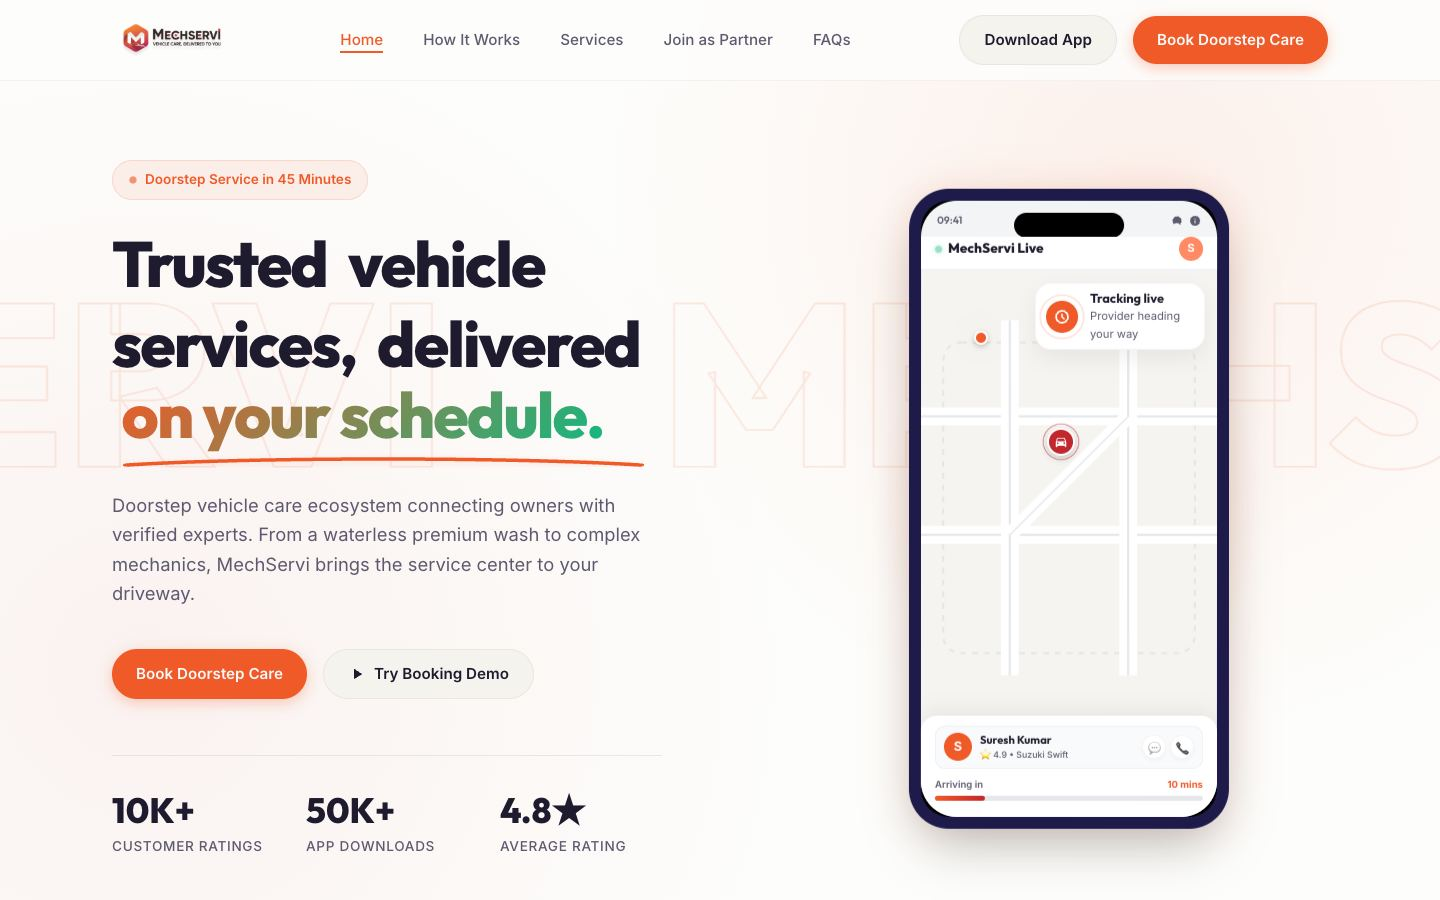
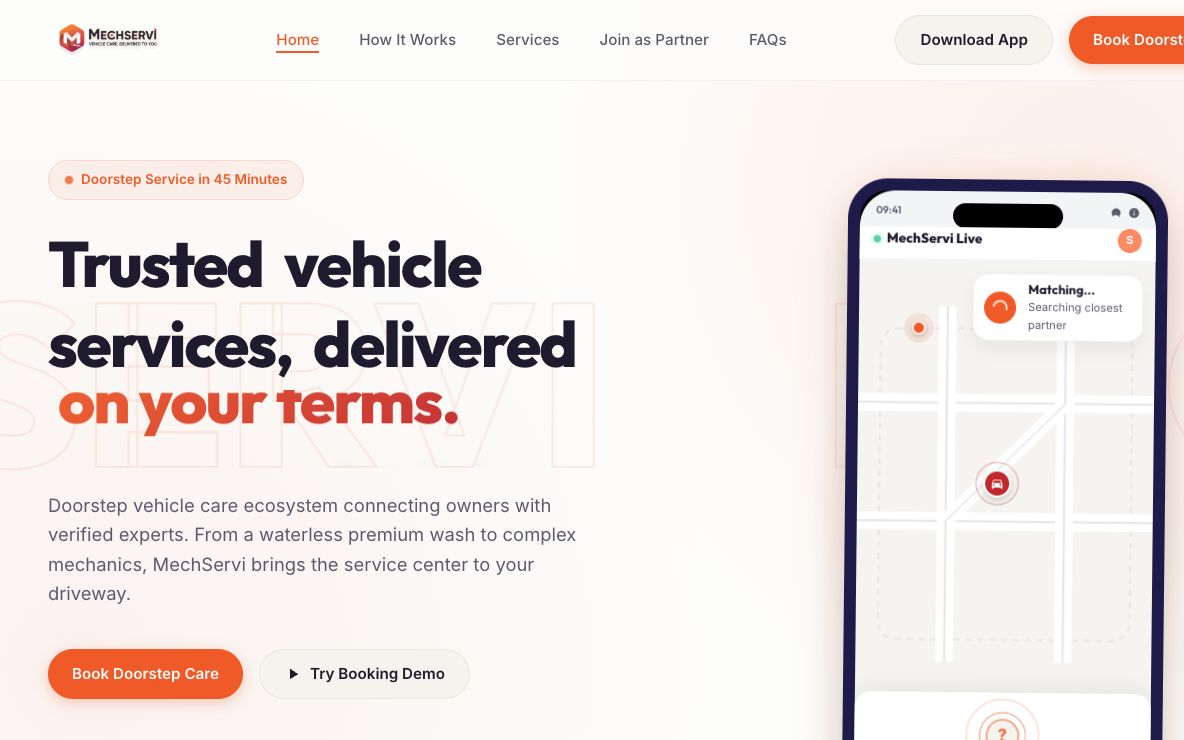
Make the portfolio results-led and link the case study
Hero leads with verified MechServi outcomes and relocation availability;
overview adds a results strip; project cards show headline results
(MechServi, SetoraHome campaign data) and link to the case study; nav,
experience and sitemap point to /mechservi/. Replace the MechServi
screenshot with a crop that omits the live site's unverified stats.

diff --git a/src/components/Hero.tsx b/src/components/Hero.tsx
@@ -1,7 +1,9 @@
 "use client";
 
+import Link from "next/link";
 import { motion } from "framer-motion";
-import { ArrowDown, ArrowRight, Blocks, Cog, LineChart, Rocket, type LucideIcon } from "lucide-react";
+import { ArrowDown, ArrowRight, Blocks, Cog, LineChart, MapPin, Rocket, type LucideIcon } from "lucide-react";
+import { headline as mechservi } from "@/lib/mechservi";
 import { site } from "@/lib/site";
 import { Reveal } from "./ui";
 
@@ -34,7 +36,7 @@ export function Hero() {
 
         <motion.p
           {...fadeUp(0.16)}
-          className="mt-8 flex flex-col gap-1 text-2xl font-medium tracking-tight text-fg sm:flex-row sm:flex-wrap sm:items-center sm:gap-x-4 md:text-3xl"
+          className="mt-8 flex flex-col gap-1 text-xl font-medium tracking-tight text-fg sm:flex-row sm:flex-wrap sm:items-center sm:gap-x-4 md:text-2xl"
         >
           {site.headline.map((h, i) => (
             <span key={h} className="flex items-center gap-4">
@@ -45,8 +47,9 @@ export function Hero() {
         </motion.p>
 
         <motion.p {...fadeUp(0.24)} className="mt-8 max-w-2xl text-lg leading-relaxed text-muted md:text-xl">
-          I work at the intersection of business strategy, operations, technology and growth. I build business processes,
-          execute go-to-market strategies, manage cross-functional projects and turn ideas into structured execution.
+          I don&apos;t just plan strategy. As founder of MechServi I built the business systems, ran the growth campaigns,
+          shipped the digital platforms and managed real-world operations, serving{" "}
+          <span className="text-fg">402 customers with a 28% repeat rate</span>.
         </motion.p>
 
         <motion.div {...fadeUp(0.32)} className="mt-12 flex flex-wrap items-center gap-3">
@@ -57,14 +60,21 @@ export function Hero() {
             View My Work
             <ArrowDown className="size-4 transition-transform group-hover:translate-y-0.5" aria-hidden />
           </a>
-          <a
-            href="#contact"
+          <Link
+            href="/mechservi/"
             className="group inline-flex items-center gap-2 rounded-full border border-line-strong px-7 py-4 text-sm font-medium text-fg transition hover:border-fg"
           >
-            Contact Me
+            MechServi Case Study
             <ArrowRight className="size-4 transition-transform group-hover:translate-x-0.5" aria-hidden />
+          </Link>
+          <a href="#contact" className="px-3 py-4 text-sm font-medium text-muted transition hover:text-fg">
+            Contact Me
           </a>
         </motion.div>
+        <motion.p {...fadeUp(0.4)} className="mt-8 flex items-center gap-2 text-sm text-muted">
+          <MapPin className="size-4 text-cyan" aria-hidden />
+          {site.availability}
+        </motion.p>
       </div>
     </section>
   );
@@ -104,6 +114,28 @@ export function Overview() {
               </li>
             ))}
           </ul>
+        </Reveal>
+
+        <Reveal className="lg:col-span-2">
+          <div className="flex flex-wrap items-baseline justify-between gap-3">
+            <p className="font-mono text-[11px] uppercase tracking-[0.28em] text-muted">Results at MechServi</p>
+            <Link href="/mechservi/" className="group inline-flex items-center gap-1.5 text-sm font-medium text-cyan hover:text-fg">
+              See how these were measured
+              <ArrowRight className="size-3.5 transition-transform group-hover:translate-x-0.5" aria-hidden />
+            </Link>
+          </div>
+          <dl className="mt-5 grid grid-cols-2 gap-px overflow-hidden rounded-3xl border border-line bg-line lg:grid-cols-4">
+            {[mechservi[0], mechservi[1], mechservi[2], mechservi[5]].map((m) => (
+              <div key={m.label} className="bg-ink-2 p-6 md:p-7">
+                <dt className="sr-only">{m.label}</dt>
+                <dd>
+                  <span className="block font-serif text-4xl italic leading-none md:text-5xl">{m.value}</span>
+                  <span className="mt-3 block font-medium tracking-tight">{m.label}</span>
+                  <span className="mt-1 block text-xs leading-relaxed text-muted">{m.note}</span>
+                </dd>
+              </div>
+            ))}
+          </dl>
         </Reveal>
       </div>
     </section>

diff --git a/src/lib/content.ts b/src/lib/content.ts
@@ -2,7 +2,7 @@
 // repositories. Nothing here is an estimate: no invented clients, traffic,
 // revenue or user numbers. Update this file when the facts change.
 
-export type EngagementKind = "Operating role" | "Freelance practice" | "Project engagement" | "Consulting engagement" | "Training";
+export type EngagementKind = "Founder" | "Operating role" | "Freelance practice" | "Project engagement" | "Consulting engagement" | "Training";
 
 export type Experience = {
   id: string;
@@ -22,7 +22,7 @@ export const coreExperience: Experience[] = [
     id: "mechservi",
     name: "MechServi Technology Pvt. Ltd.",
     role: "Founder & CEO",
-    kind: "Operating role",
+    kind: "Founder",
     period: "2023 — Present",
     description: "Doorstep automotive services business, Lucknow.",
     highlights: [
@@ -34,7 +34,9 @@ export const coreExperience: Experience[] = [
       "Implemented CRM and WhatsApp Business workflows.",
       "Coordinated field teams, service delivery and customer issue resolution.",
     ],
-    link: { label: "mechservi.in", href: "https://mechservi.in" },
+    contribution:
+      "402 unique customers, 389 completed one-time services and 91 subscription customers in operating records (Nov 2025 – Apr 2026); 28% of one-time customers booked again.",
+    link: { label: "Read the MechServi case study", href: "/mechservi/" },
   },
   {
     id: "freelance",
@@ -81,7 +83,7 @@ export const engagements: Experience[] = [
       "WhatsApp Business setup and catalogue; lead qualification, booking workflow and follow-up SOPs.",
       "AI-assisted video ad concepts, scripts, Hindi voiceovers and creative direction.",
     ],
-    contribution: "Designed the launch GTM: from ad to WhatsApp conversation to booking, with a 10-minute warm-lead response process.",
+    contribution: "Designed the launch GTM from ad to WhatsApp conversation to booking. Three Meta campaigns started 135 WhatsApp conversations in 15 days (4–18 Oct 2026).",
     link: { label: "setorahome.com", href: "https://www.setorahome.com" },
   },
   {
@@ -164,6 +166,10 @@ export type Project = {
   imageAlt: string;
   links: { label: string; href: string }[];
   note?: string;
+  /** Verified headline results shown on the card. */
+  results?: { value: string; label: string }[];
+  /** Internal route to a full case study. */
+  caseStudy?: string;
 };
 
 export const projects: Project[] = [
@@ -171,8 +177,15 @@ export const projects: Project[] = [
     slug: "mechservi",
     name: "MechServi",
     kicker: "Automotive services · 2023 → present",
-    tagline: "A doorstep bike and car service business, taken from idea to live operations in Lucknow.",
+    tagline: "A doorstep vehicle-care business in Lucknow: 402 unique customers, 389 completed services and a 28% repeat rate.",
     status: { label: "Live business", tone: "live" },
+    results: [
+      { value: "402", label: "Unique customers" },
+      { value: "389", label: "Completed services" },
+      { value: "28%", label: "Repeat rate" },
+      { value: "870K+", label: "Meta views / month" },
+    ],
+    caseStudy: "/mechservi/",
     role: "Founder & CEO",
     problem:
       "Vehicle owners lose half a day to a workshop visit, while skilled independent mechanics have no steady demand or booking system. MechServi brings the service to the driveway.",
@@ -237,6 +250,12 @@ export const projects: Project[] = [
     kicker: "Home services · Varanasi launch",
     tagline: "A multi-service home-care brand: shifting, cleaning, repairs, car washing and senior care.",
     status: { label: "Live brand · redesign ready", tone: "live" },
+    results: [
+      { value: "135", label: "WhatsApp conversations" },
+      { value: "13.5K", label: "Ad impressions" },
+      { value: "91", label: "Partner-hiring chats" },
+      { value: "15 days", label: "Campaign window" },
+    ],
     role: "Digital Growth & Marketing Consultant",
     problem:
       "Households in Varanasi have no single, trusted channel to book everyday home help, from shifting and repairs to hospital assistance for parents.",

diff --git a/src/components/Projects.tsx b/src/components/Projects.tsx
@@ -1,5 +1,6 @@
 import Image from "next/image";
-import { ArrowUpRight, Lock } from "lucide-react";
+import Link from "next/link";
+import { ArrowRight, ArrowUpRight, Lock } from "lucide-react";
 import { moreRepos, projects, type Project } from "@/lib/content";
 import { asset } from "@/lib/site";
 import { GitHubIcon } from "./icons";
@@ -54,6 +55,20 @@ function ProjectCase({ p, index }: { p: Project; index: number }) {
         <h3 className="mt-2 text-4xl font-medium tracking-tight md:text-5xl">{p.name}</h3>
         <p className="mt-4 text-lg leading-relaxed text-fg/85">{p.tagline}</p>
 
+        {p.results && (
+          <dl className="mt-7 grid grid-cols-2 gap-px overflow-hidden rounded-2xl border border-line bg-line sm:grid-cols-4">
+            {p.results.map((r) => (
+              <div key={r.label} className="bg-ink-2 px-4 py-4">
+                <dt className="sr-only">{r.label}</dt>
+                <dd>
+                  <span className="block font-serif text-3xl italic leading-none text-fg">{r.value}</span>
+                  <span className="mt-1.5 block text-xs text-muted">{r.label}</span>
+                </dd>
+              </div>
+            ))}
+          </dl>
+        )}
+
         <dl className="mt-8 grid gap-6 sm:grid-cols-[120px_1fr]">
           <dt className="font-mono text-[11px] uppercase tracking-widest text-dim">My role</dt>
           <dd className="text-fg">{p.role}</dd>
@@ -98,6 +113,15 @@ function ProjectCase({ p, index }: { p: Project; index: number }) {
         </dl>
 
         <div className="mt-9 flex flex-wrap items-center gap-2">
+          {p.caseStudy && (
+            <Link
+              href={p.caseStudy}
+              className="group inline-flex items-center gap-2 rounded-full bg-cyan px-5 py-2 text-sm font-semibold text-ink transition hover:bg-white"
+            >
+              Read the case study
+              <ArrowRight className="size-4 transition-transform group-hover:translate-x-0.5" aria-hidden />
+            </Link>
+          )}
           {p.links.map((l) => (
             <a
               key={l.href}

diff --git a/src/components/Nav.tsx b/src/components/Nav.tsx
@@ -3,7 +3,8 @@
 import { useEffect, useState } from "react";
 import { AnimatePresence, motion } from "framer-motion";
 import { Download, Menu, X } from "lucide-react";
-import { asset, navItems, site } from "@/lib/site";
+import Link from "next/link";
+import { asset, navItems, pageLinks, site } from "@/lib/site";
 import { LinkedInIcon } from "./icons";
 
 export function Nav() {
@@ -75,6 +76,13 @@ export function Nav() {
               </a>
             </li>
           ))}
+          {pageLinks.map((l) => (
+            <li key={l.href}>
+              <Link href={l.href} className="block rounded-full px-4 py-1.5 text-sm text-cyan transition-colors hover:text-fg">
+                Case Study
+              </Link>
+            </li>
+          ))}
         </ul>
 
         <div className="flex items-center gap-2">
@@ -136,6 +144,18 @@ export function Nav() {
                     {n.label}
                   </a>
                 </motion.li>
+              ))}
+              {pageLinks.map((l) => (
+                <li key={l.href}>
+                  <Link
+                    href={l.href}
+                    onClick={() => setOpen(false)}
+                    className="flex items-baseline gap-4 border-b border-line py-4 text-3xl tracking-tight text-cyan"
+                  >
+                    <span className="font-mono text-xs">→</span>
+                    {l.label}
+                  </Link>
+                </li>
               ))}
             </ul>
             <div className="flex flex-wrap gap-3 px-5 pt-8">

diff --git a/src/components/Experience.tsx b/src/components/Experience.tsx
@@ -2,7 +2,8 @@
 
 import { useState } from "react";
 import { AnimatePresence, motion } from "framer-motion";
-import { ArrowUpRight, ChevronDown, GraduationCap } from "lucide-react";
+import Link from "next/link";
+import { ArrowRight, ArrowUpRight, ChevronDown, GraduationCap } from "lucide-react";
 import { coreExperience, engagements, engagementsPeriod, type Experience as Exp } from "@/lib/content";
 import { Reveal, SectionHeading } from "./ui";
 
@@ -66,7 +67,16 @@ function ExperienceItem({ e, open, onToggle, highlight }: { e: Exp; open: boolea
                   <p className="mt-1.5 text-sm leading-relaxed text-fg">{e.contribution}</p>
                 </div>
               )}
-              {e.link && (
+              {e.link?.href.startsWith("/") && (
+                <Link
+                  href={e.link.href}
+                  className="group mt-4 inline-flex items-center gap-1.5 text-sm font-medium text-cyan transition hover:text-fg"
+                >
+                  {e.link.label}
+                  <ArrowRight className="size-3.5 transition-transform group-hover:translate-x-0.5" aria-hidden />
+                </Link>
+              )}
+              {e.link && !e.link.href.startsWith("/") && (
                 <a
                   href={e.link.href}
                   target="_blank"

diff --git a/src/lib/site.ts b/src/lib/site.ts
@@ -10,9 +10,9 @@ export const site = {
   description:
     "Rishabh Shukla is a strategy and operations professional from Lucknow, India, with 3+ years of startup execution across business growth, product and marketplace operations, GTM strategy and technology implementation.",
   designation: "Strategy & Operations Lead",
-  headline: ["Business Strategy", "Growth", "Product Operations"],
+  headline: ["Business Strategy & Operations", "Growth & Performance Marketing", "Product & Technology Execution"],
   location: "Lucknow, Uttar Pradesh, India",
-  availability: "Open to Delhi NCR (Gurgaon / Noida) and Remote",
+  availability: "Open to immediate relocation · Delhi NCR, Bengaluru or remote",
   email: "rishabh18795@gmail.com",
   phone: "+91 95591 33317",
   phoneHref: "tel:+919559133317",
@@ -32,3 +32,6 @@ export const navItems = [
   { id: "projects", label: "Projects" },
   { id: "contact", label: "Contact" },
 ] as const;
+
+/** Standalone pages linked from the main navigation. */
+export const pageLinks = [{ href: "/mechservi/", label: "MechServi case study" }] as const;

diff --git a/src/app/sitemap.ts b/src/app/sitemap.ts
@@ -4,5 +4,8 @@ import { site } from "@/lib/site";
 export const dynamic = "force-static";
 
 export default function sitemap(): MetadataRoute.Sitemap {
-  return [{ url: `${site.url}/`, lastModified: new Date(), changeFrequency: "monthly", priority: 1 }];
+  return [
+    { url: `${site.url}/`, lastModified: new Date(), changeFrequency: "monthly", priority: 1 },
+    { url: `${site.url}/mechservi/`, lastModified: new Date(), changeFrequency: "monthly", priority: 0.9 },
+  ];
 }

diff --git a/README.md b/README.md
@@ -21,7 +21,9 @@ The site presents MechServi (where Rishabh leads startup operations and growth),
 
 ## Sections
 
-Home (hero + professional overview) · Technical Skills · Experience (expandable timeline, education) · Projects · Contact (form + direct channels) · Resume download
+Home (hero, overview, verified results) · Technical Skills · Experience (expandable timeline, education) · Projects · Contact (form + direct channels) · Resume download
+
+**MechServi case study** (`/mechservi/`): flagship founder case study with customer and retention analytics, performance marketing results, WhatsApp and CRM workflow, revenue model, operations and technology, each item labelled by real status. Data rules: no prices, no customer personal data, workbook versions de-duplicated rather than summed. Figures and their derivation live in `src/lib/mechservi.ts`.
 
 SEO: metadata, Open Graph/Twitter image (`public/og.png`), JSON-LD `Person` schema, `sitemap.xml`, `robots.txt`, SVG favicon.
 
@@ -29,14 +31,16 @@ SEO: metadata, Open Graph/Twitter image (`public/og.png`), JSON-LD `Person` sche
 
 ```
 src/
-  app/            layout (metadata, fonts), page, icon.svg, sitemap.ts, robots.ts, not-found
-  components/     Nav, Hero (incl. Overview), Skills, Experience, Projects, Contact, ContactForm, ui
+  app/            layout (metadata, fonts), page, mechservi/ (case study), icon.svg, sitemap.ts, robots.ts, not-found
+  components/     Nav, Hero (incl. Overview), Skills, Experience, Projects, Contact, ContactForm, mechservi (case-study blocks), ui
   lib/
     site.ts       profile, links, contact details, base-path helper
     content.ts    experience, projects, skill groups: all site copy lives here
+    mechservi.ts  case-study figures, sources and methodology
 scripts/og.html   source for public/og.png (render at 1200x630)
 public/
   projects/       screenshots of the live project sites
+  mechservi/      website hero and price-free campaign creatives
   Rishabh_Shukla_Resume_2026.pdf
   og.png
 .github/workflows/deploy.yml
